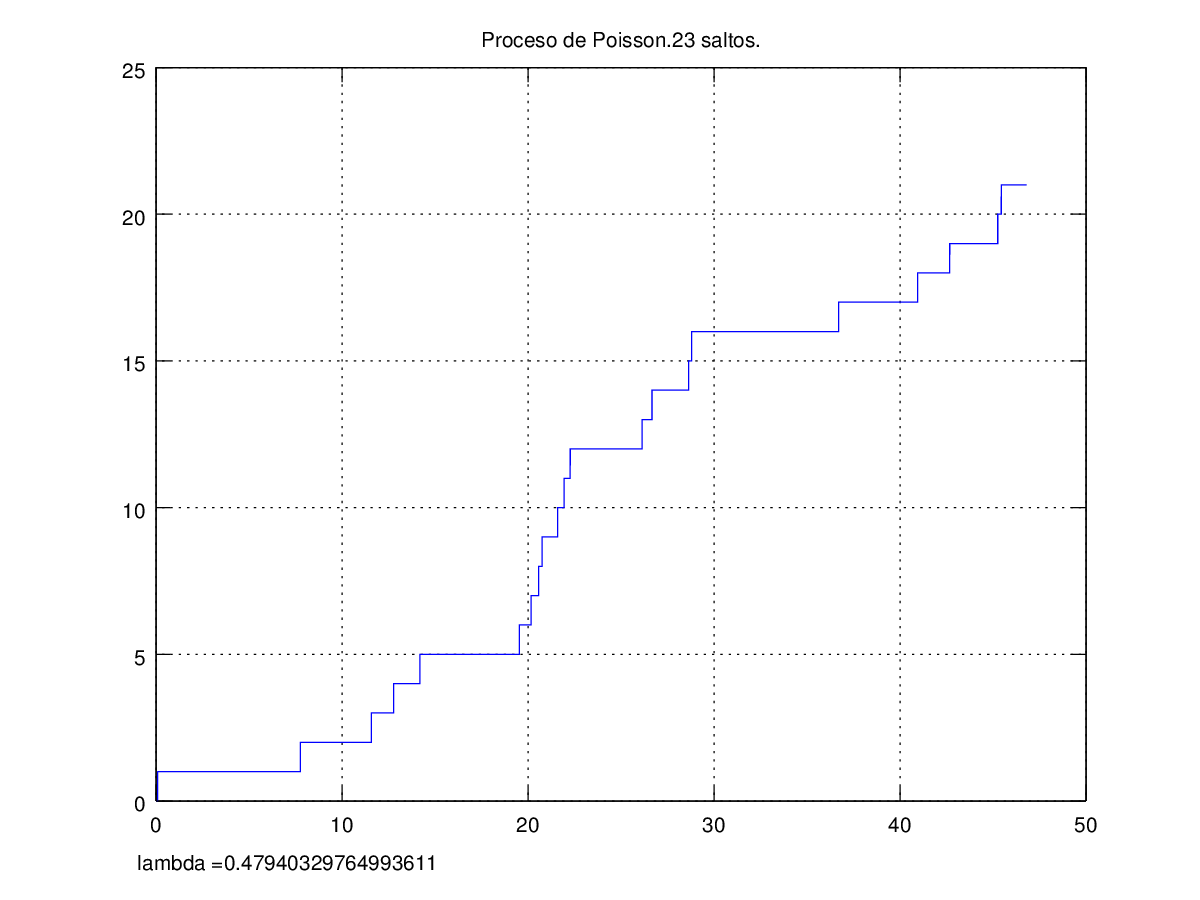
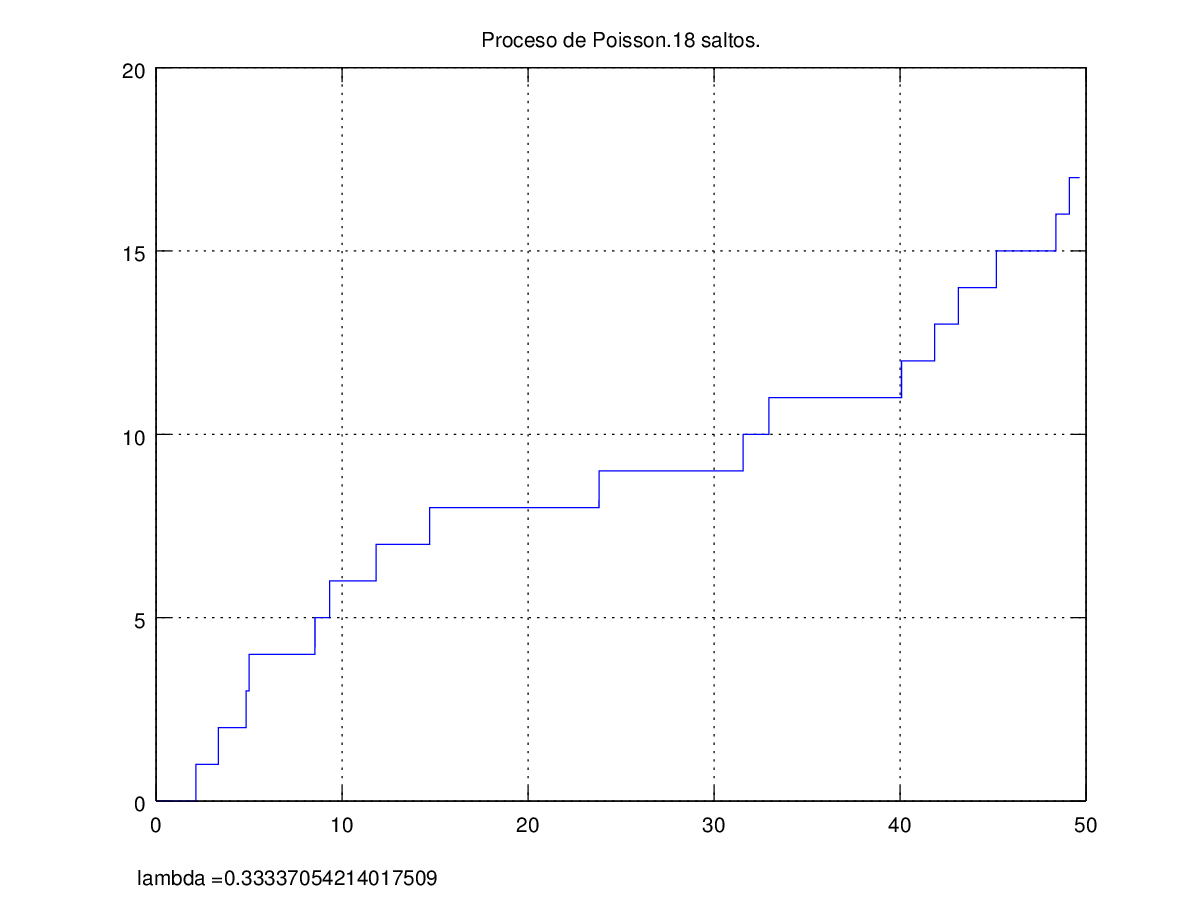
Corrección y notas en 5.1.4

diff --git a/tarea5/problema5_1/inciso5_1_4.tex b/tarea5/problema5_1/inciso5_1_4.tex
@@ -42,8 +42,12 @@ A continuación una gráfica obtenida de ejecutar este código:\pn
 A diferencia de la implementación anterior, esta vez intentamos representar el proceso de Poisson 
 hasta un tiempo dado y no hasta un número de saltos dado. \pn
 
-Como se puede apreciar, en esta última ejecución hasta el tiempo $50$ únicamente hubo $23$ saltos. 
+Como se puede apreciar, en esta última ejecución hasta el tiempo $50$ únicamente hubo $18$ saltos. 
 A diferencia de que en la ejecución de la primera implementacción hubo casi $50$ saltos para el 
 tiempo $50$. Cabe notar, que el parámetro lambda de la primera implementación era aproximadamente 
-$0.861297$, mientras que el de la segunda a penas $0.479403$.
+$0.861297$, mientras que el de la segunda a penas aproximadamente $0.333371$.\pn
 
+\textbf{Nota: } Para poder implementar esta versión del algoritmo se necesitó implementar
+una función que se deduce del resultado de [\ref{problema5_1:inciso3}]. Esta parte está en el archivo con nombre
+\texttt{t1\_dado\_tn\_rnd.m}. Esta función se usa para calcular los tiemos de salto y lo único
+que hace es simular una variable aleatoria con la densidad del resultado de [\ref{problema5_1:inciso3}].

diff --git a/tarea5/problema5_1/ProcesoPoissonConPoisson.m b/tarea5/problema5_1/ProcesoPoissonConPoisson.m
@@ -5,8 +5,12 @@ clear;
 
 #Se calcula la cantidad de saltos al tiempo t
 	N_t = poissrnd(lambda*50);
-	T = sort(rand(N_t, 1)) * t;
-	T(N_t) = T(N_t - 1);
-	
+	T(N_t) = t;
+	T(1)=0;
+	for i = 1:(N_t-1)
+		T(i+1) = t1_dado_tn_rnd(N_t - i + 1, t - T(i));
+		T(i+1) = T(i+1) + T(i);
+	endfor;
+	T = T(2:end);
 
 GraficaPoisson(T, lambda);

diff --git a/tarea5/problema5_1/t1_dado_tn_rnd.m b/tarea5/problema5_1/t1_dado_tn_rnd.m
@@ -1,0 +1,7 @@
+function _t1_dado_tn_rnd = t1_dado_tn_rnd(n, t)
+	r = rand();
+	aux = 1-r;
+	aux = aux.^(1./(n-1));
+	aux = 1-aux;
+	_t1_dado_tn_rnd = aux.*t;
+endfunction;
